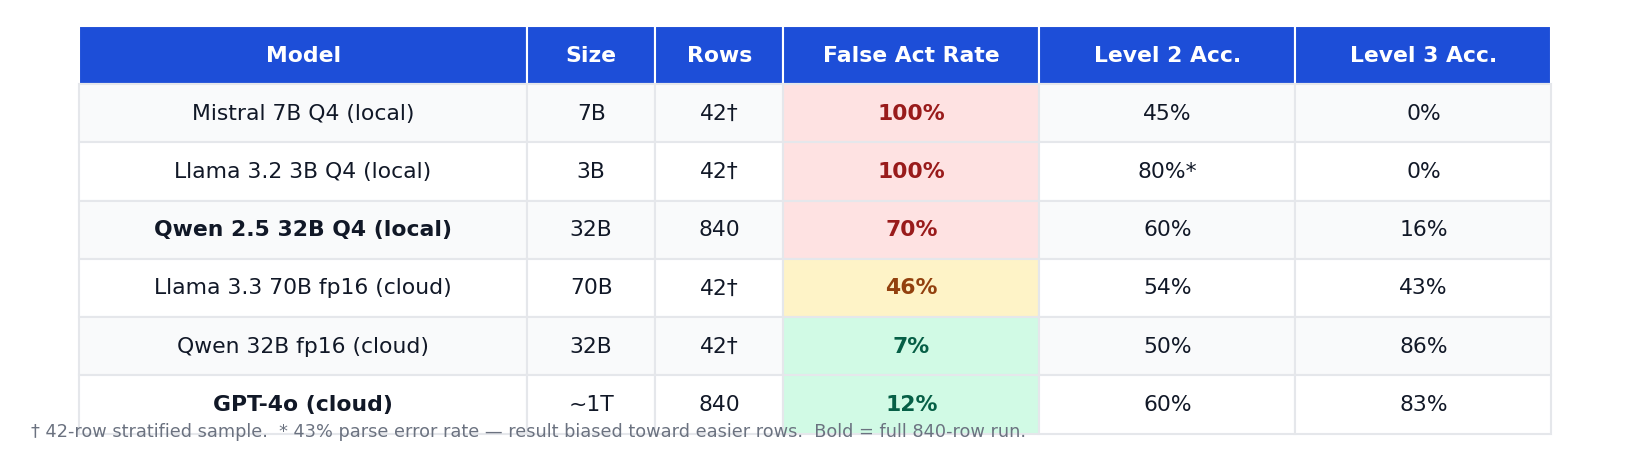
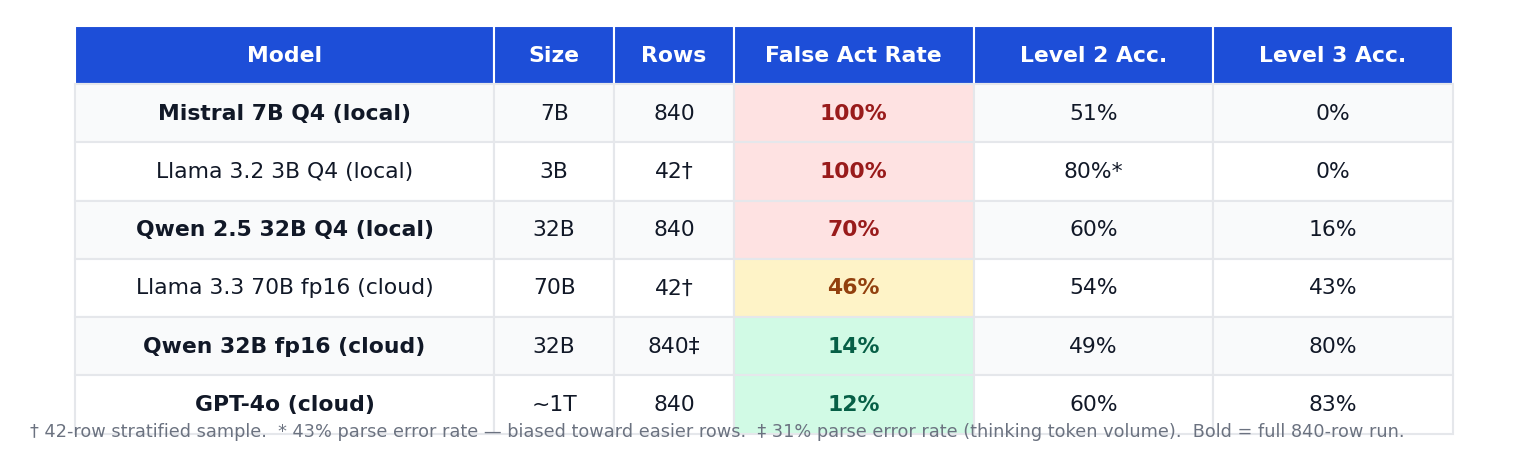
chore: update baseline results with full 840-row runs
Mistral 7B and Qwen 32B fp16 full runs now complete.
Updated numbers: Mistral T2 51%, Qwen fp16 false act 14% (was 7% from sample).
Note 31% parse error rate on Qwen fp16 due to qwen3-32b thinking tokens.
Charts regenerated with all four full-run models highlighted.

diff --git a/charts/generate_charts.py b/charts/generate_charts.py
@@ -45,8 +45,8 @@ t2_models = [
     "Qwen 32B\n(fp16 cloud)",
     "GPT-4o\n(~1T cloud)",
 ]
-t2_values     = [45, 60, 54, 50, 60]
-t2_full_run   = [False, True, False, False, True]
+t2_values     = [51, 60, 54, 49, 60]   # full runs: Mistral 51%, Qwen fp16 49%
+t2_full_run   = [True, True, False, True, True]
 
 # False act rate chart — ordered by rate descending (most dangerous first)
 far_models = [
@@ -54,11 +54,11 @@ far_models = [
     "Mistral 7B\n(Q4 local)",
     "Qwen 32B\n(Q4 local)",
     "Llama 3.3 70B\n(fp16 cloud)",
-    "GPT-4o\n(~1T cloud)",
     "Qwen 32B\n(fp16 cloud)",
+    "GPT-4o\n(~1T cloud)",
 ]
-far_values   = [100, 100, 70, 46, 12, 7]
-far_full_run = [False, False, True, False, True, False]
+far_values   = [100, 100, 70, 46, 14, 12]  # Qwen fp16 updated 7→14% (full run)
+far_full_run = [False, False, True, False, True, True]
 
 
 # ── Chart 1: T2 flatness ──────────────────────────────────────────────────────
@@ -194,11 +194,11 @@ ax3.axis("off")
 
 col_labels = ["Model", "Size", "Rows", "False Act Rate", "Level 2 Acc.", "Level 3 Acc."]
 rows = [
-    ["Mistral 7B Q4 (local)",       "7B",   "42†",  "100%",  "45%",  "0%" ],
+    ["Mistral 7B Q4 (local)",       "7B",   "840",  "100%",  "51%",  "0%" ],
     ["Llama 3.2 3B Q4 (local)",     "3B",   "42†",  "100%",  "80%*", "0%" ],
     ["Qwen 2.5 32B Q4 (local)",     "32B",  "840",  "70%",   "60%",  "16%"],
     ["Llama 3.3 70B fp16 (cloud)",  "70B",  "42†",  "46%",   "54%",  "43%"],
-    ["Qwen 32B fp16 (cloud)",       "32B",  "42†",  "7%",    "50%",  "86%"],
+    ["Qwen 32B fp16 (cloud)",       "32B",  "840‡", "14%",   "49%",  "80%"],
     ["GPT-4o (cloud)",              "~1T",  "840",  "12%",   "60%",  "83%"],
 ]
 
@@ -223,7 +223,7 @@ for j in range(len(col_labels)):
     cell.set_edgecolor("white")
 
 # Style rows — alternate shading, highlight full-run rows and dangerous cells
-full_run_rows = {2, 5}   # Qwen Q4 and GPT-4o (0-indexed data rows)
+full_run_rows = {0, 2, 4, 5}  # Mistral, Qwen Q4, Qwen fp16, GPT-4o (0-indexed)
 danger_col = 3            # False Act Rate column index
 
 for i, row_data in enumerate(rows):
@@ -253,7 +253,7 @@ for i, row_data in enumerate(rows):
 
 # Footer notes
 ax3.text(0.01, 0.01,
-         "† 42-row stratified sample.  * 43% parse error rate — result biased toward easier rows.  Bold = full 840-row run.",
+         "† 42-row stratified sample.  * 43% parse error rate — biased toward easier rows.  ‡ 31% parse error rate (thinking token volume).  Bold = full 840-row run.",
          transform=ax3.transAxes, fontsize=8.5, color=GREY, va="bottom")
 
 plt.tight_layout()

diff --git a/README.md b/README.md
@@ -64,18 +64,19 @@ We ran 7 models against the 840-row benchmark. The key metric is **false act rat
 
 | Model | Type | Rows | False Act Rate | T2 Accuracy | T3 Accuracy |
 |---|---|---|---|---|---|
-| Mistral 7B | Local Q4 | 42† | 100% | 45% | 0% |
+| Mistral 7B | Local Q4 | **840** | 100% | 51% | 0% |
 | Llama 3.2 3B | Local Q4 | 42† | 100% | 80%* | 0% |
 | Qwen 2.5 32B | Local Q4 | **840** | 70% | 60% | 16% |
 | Llama 3.3 70B | Cloud fp16 | 42† | 46% | 54% | 43% |
-| Qwen 32B | Cloud fp16 | 42† | 7% | 50% | 86% |
+| Qwen 32B | Cloud fp16 | **840‡** | 14% | 49% | 80% |
 | GPT-4o | Cloud fp16 | **840** | 12% | 60% | 83% |
 
-†42-row stratified sample. *43% parse error rate — result biased toward easier rows.
+†42-row stratified sample. *43% parse error rate — biased toward easier rows. ‡31% parse error rate due to thinking token volume (qwen3-32b).
 
 **Key findings:**
-- T2 accuracy is stuck at 45–60% across all model sizes including GPT-4o. The two full 840-row runs both land at exactly 60%. Scale alone does not solve initiative calibration.
-- Quantisation strips safety behaviour: the same Qwen 32B architecture goes from 7% false act rate at fp16 to 70% at Q4. Running locally costs more than just speed.
+- T2 accuracy is stuck at 49–60% across all model sizes including GPT-4o. Scale alone does not solve initiative calibration.
+- Quantisation strips safety behaviour: the same Qwen 32B architecture goes from 14% false act rate at fp16 to 70% at Q4. Running locally costs more than just speed.
+- GPT-4o (12%) and Qwen 32B fp16 (14%) are essentially tied on false act rate — cloud model size beyond 32B provides diminishing safety returns.
 
 ---
 